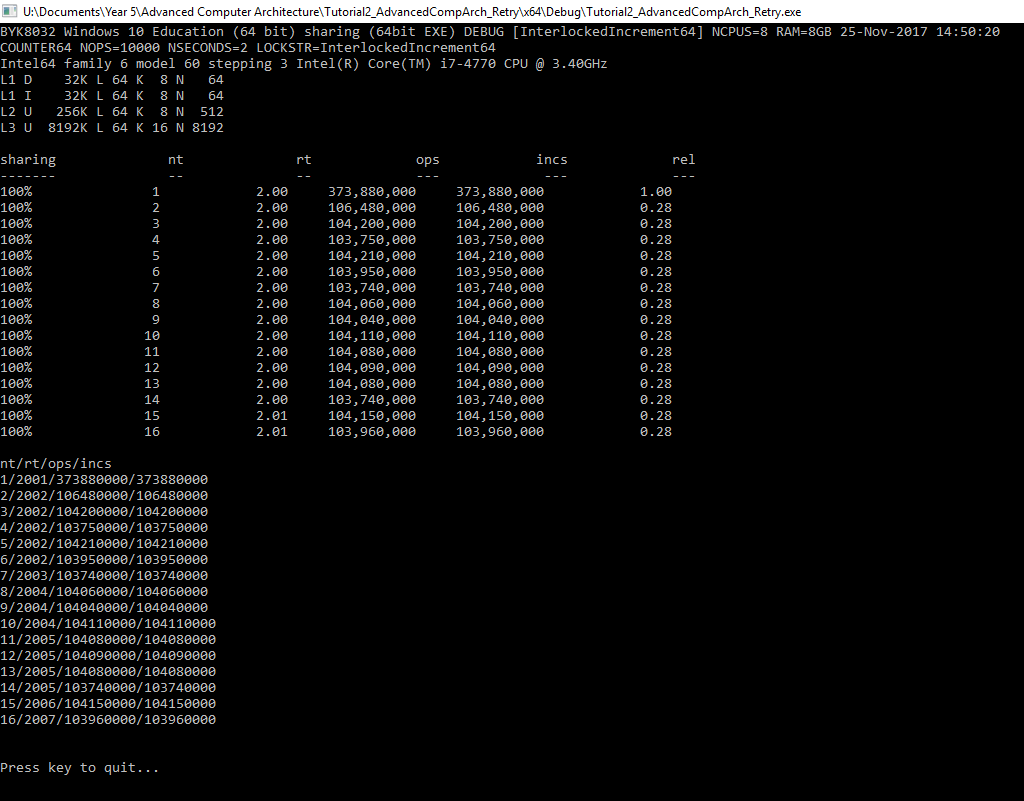
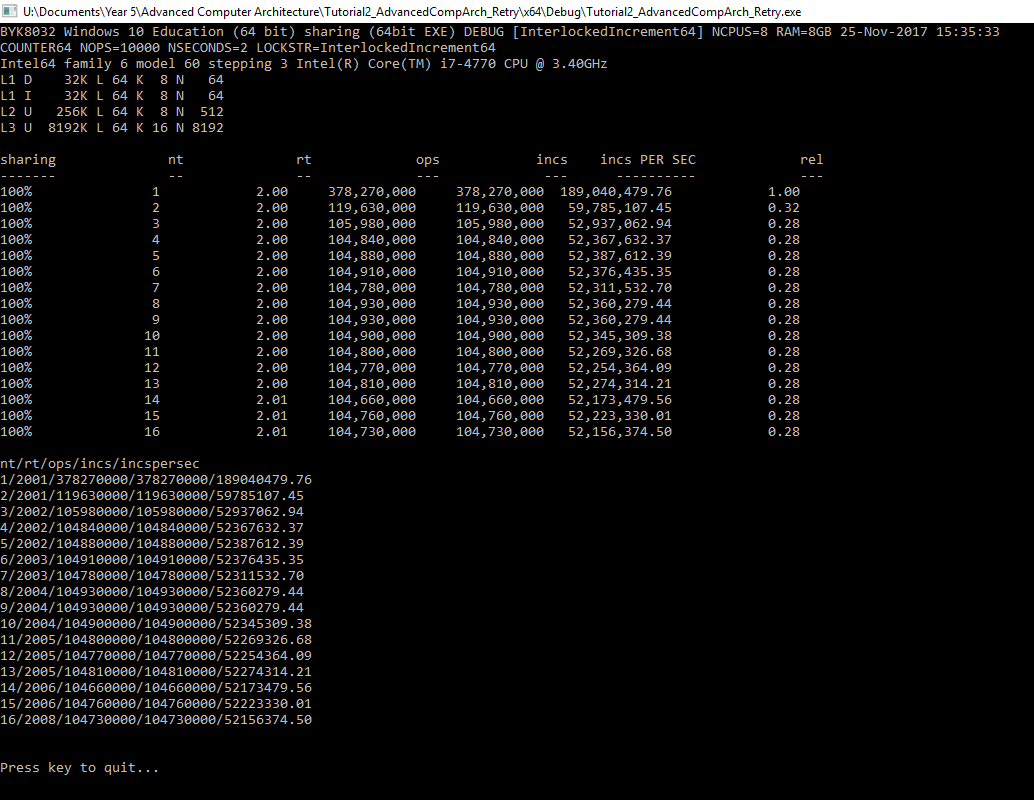
added incs per sec to console output

diff --git a/sharing.cpp b/sharing.cpp
@@ -113,7 +113,7 @@ int nt = 1;
 // 3::TestAndTestAndSetLock
 // 4::MCSLock
 //
-#define LOCKTYP       4                          // set op type
+#define LOCKTYP       0                          // set op type
 
 #if LOCKTYP == 0
 #define LOCKSTR       "increment"
@@ -389,10 +389,10 @@ int main()
 	// output results so they can easily be pasted into a spread sheet getWallClockfrom console window
 	//
 	setLocale();
-	cout << "nt/rt/ops/incs";
+	cout << "nt/rt/ops/incs/incspersec";
 	cout << endl;
 	for (UINT i = 0; i < indx; i++) {
-		cout << r[i].nt << "/" << r[i].runTime << "/" << r[i].ops << "/" << r[i].incs;
+		cout << r[i].nt << "/" << r[i].runTime << "/" << r[i].ops << "/" << r[i].incs << "/" << (r[i].incs / (r[i].runTime / 1000.0));
 		cout << endl;
 	}
 	cout << endl;
